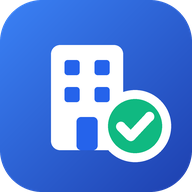
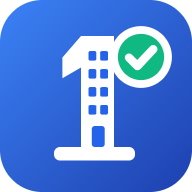
Rebrand to ועד1, with a new mark
"ועדלי" turned out to be the name of a live Israeli product in exactly this
market, with its own .com and .co.il. The product is now ועד1 (Vaad1):
vaad1.co.il is free at the registry and vaad1.com looks free.

The mark: the digit 1 drawn as a residential tower, windows down the shaft and
a door at its foot, the numeral's base as the street, and the green check the
dashboard opens with when everything is fine. Same blue as before, so the
change reads as a new name rather than a new product. Regenerated favicon
(svg, 32px png, ico), 192/512 app icons, a full-bleed apple-touch icon and a
maskable icon with the mark inside the safe zone.

Renamed in every user-facing place: the app shell, sidebar, login, resident
portal and onboarding, dashboard welcome, announcement e-mails, the vendor
invitation and its WhatsApp replies, the committee digest and monthly summary
e-mails, the e-mail sender name, the PWA manifest, the page title and the
Capacitor app name (takes effect on the next APK build).

Deliberately unchanged: the Meta template name prefix `vaadly_` (template
names cannot be renamed, only recreated), the bodies of the 13 approved
WhatsApp templates that mention the old name (editing an approved template
sends it back to review), the Android package id, and links to the current
vaadly-app.vercel.app address until the new domain is connected.

diff --git a/src/pages/Messaging.jsx b/src/pages/Messaging.jsx
@@ -79,7 +79,7 @@ async function invokeWa(body) {
 }
 
 function grokBrief(webhookUrl, verifyToken) {
-  return `אני מחבר את מערכת "ועדלי" (ניהול ועדי בתים) ל-WhatsApp Business הרשמי של Meta (Cloud API). אני צריך שתעזור לי, צעד אחר צעד:
+  return `אני מחבר את מערכת "ועד1" (ניהול ועדי בתים) ל-WhatsApp Business הרשמי של Meta (Cloud API). אני צריך שתעזור לי, צעד אחר צעד:
 
 1. ליצור או לבחור WhatsApp Business Account תחת ה-Business Manager שלי, ולרשום ולאמת מספר טלפון עסקי שישמש לשליחה.
 2. ליצור System User קבוע עם הרשאות whatsapp_business_messaging ו-whatsapp_business_management, לשייך אליו את האפליקציה ואת חשבון הוואטסאפ, ולהפיק טוקן גישה קבוע (ללא תפוגה).
@@ -88,7 +88,7 @@ function grokBrief(webhookUrl, verifyToken) {
    Callback URL: ${webhookUrl || '(יופיע במערכת אחרי שמירה ראשונה)'}
    Verify Token: ${verifyToken || '(יופיע במערכת אחרי שמירה ראשונה)'}
    ולהירשם לשדות: messages, message_template_status_update.
-5. להגדיר שם תצוגה לעסק ("ועדלי") ושיטת תשלום בחשבון הוואטסאפ.
+5. להגדיר שם תצוגה לעסק ("ועד1") ושיטת תשלום בחשבון הוואטסאפ.
 
 את תבניות ההודעות (לדיירים ולספקים) המערכת מגישה לאישור Meta בעצמה — אין צורך ליצור אותן ידנית.`
 }
@@ -143,7 +143,7 @@ function categoryAppealBrief(templates, wabaId) {
   const list = rows
     .map((t) => `• ${t.meta_name} — ${t.title}\n  ${APPEAL_GROUNDS[t.key] || 'Transactional message tied to the recipient\'s own account.'}`)
     .join('\n')
-  return `Meta סיווגה ${rows.length} מהתבניות של ועדלי כ-MARKETING במקום UTILITY. אני צריך שתגיש בקשת ביקורת קטגוריה (Request category review) ב-WhatsApp Manager.
+  return `Meta סיווגה ${rows.length} מהתבניות של ועד1 כ-MARKETING במקום UTILITY. אני צריך שתגיש בקשת ביקורת קטגוריה (Request category review) ב-WhatsApp Manager.
 
 חשוב: אי אפשר לעשות את זה דרך ה-API. מטא מאפשרת את זה רק מ-WhatsApp Manager, ולכן רק מי שיש לו גישה לחשבון יכול.
 
@@ -702,7 +702,7 @@ function ConnectionPanel({ cfg, reload }) {
   const c = cfg?.config || {}
   const [form, setForm] = useState({
     phone_number_id: c.phone_number_id || '', waba_id: c.waba_id || '',
-    graph_version: c.graph_version || 'v21.0', sender_label: c.sender_label || 'ועדלי', enabled: !!c.enabled,
+    graph_version: c.graph_version || 'v21.0', sender_label: c.sender_label || 'ועד1', enabled: !!c.enabled,
   })
   const [token, setToken] = useState('')
   const [appSecret, setAppSecret] = useState('')
@@ -713,7 +713,7 @@ function ConnectionPanel({ cfg, reload }) {
     const k = cfg?.config || {}
     setForm({
       phone_number_id: k.phone_number_id || '', waba_id: k.waba_id || '',
-      graph_version: k.graph_version || 'v21.0', sender_label: k.sender_label || 'ועדלי', enabled: !!k.enabled,
+      graph_version: k.graph_version || 'v21.0', sender_label: k.sender_label || 'ועד1', enabled: !!k.enabled,
       forward_webhook_url: k.forward_webhook_url || '',
     })
   }, [cfg])
@@ -803,7 +803,7 @@ function ConnectionPanel({ cfg, reload }) {
             </label>
             <p className="text-[11px] text-[var(--text-muted)]">
               ל-Meta יש כתובת webhook אחת בלבד לכל אפליקציה. המספר משותף עם "אות", והגיליון שלה מתעדכן מ-Apps Script.
-              אם תמלאו כאן את הכתובת שלה, ועדלי יקבל את האירועים ויעביר כל אחד מהם הלאה כמו שהוא — ושניהם ימשיכו לעבוד.
+              אם תמלאו כאן את הכתובת שלה, ועד1 יקבל את האירועים ויעביר כל אחד מהם הלאה כמו שהוא — ושניהם ימשיכו לעבוד.
               ריק = אין העברה, והגיליון יפסיק להתעדכן ברגע שה-webhook יוחלף.
             </p>
           </div>

diff --git a/src/components/common/BrandLogo.jsx b/src/components/common/BrandLogo.jsx
@@ -1,25 +1,30 @@
-// The ועדלי brand mark, inlined — an <img src="/favicon.svg"> can fail to
-// load (stale APK bundle, offline first paint); inline SVG cannot.
+// The ועד1 brand mark, inlined — an <img src="/favicon.svg"> can fail to load
+// (stale APK bundle, offline first paint); inline SVG cannot.
+//
+// The digit 1 is a residential tower: windows down the shaft, a door at the
+// foot, the base of the numeral as the street. The green check is the same
+// "everything is fine" the dashboard opens with.
 export function BrandLogo({ className = 'w-10 h-10' }) {
   return (
-    <svg viewBox="0 0 64 64" className={className} role="img" aria-label="ועדלי">
+    <svg viewBox="0 0 64 64" className={className} role="img" aria-label="ועד1">
       <defs>
-        <linearGradient id="vaadly-g" x1="0" y1="0" x2="1" y2="1">
+        <linearGradient id="vaad1-g" x1="0" y1="0" x2="1" y2="1">
           <stop offset="0" stopColor="#3b82f6" />
           <stop offset="1" stopColor="#1e40af" />
         </linearGradient>
       </defs>
-      <rect width="64" height="64" rx="14" fill="url(#vaadly-g)" />
-      <rect x="17" y="15" width="24" height="35" rx="3" fill="#ffffff" />
+      <rect width="64" height="64" rx="14" fill="url(#vaad1-g)" />
+      <path d="M27 12h11v37h-11V22.5l-6.2 3.6v-6.9z" fill="#ffffff" />
+      <rect x="18" y="49" width="27" height="4.5" rx="2" fill="#ffffff" />
       <g fill="#2563eb">
-        <rect x="21.5" y="20" width="5" height="5" rx="1" />
-        <rect x="31.5" y="20" width="5" height="5" rx="1" />
-        <rect x="21.5" y="29" width="5" height="5" rx="1" />
-        <rect x="31.5" y="29" width="5" height="5" rx="1" />
-        <rect x="25.5" y="39" width="7" height="11" rx="1.5" />
+        <rect x="29.5" y="17" width="2.6" height="3.2" rx=".6" /><rect x="33.4" y="17" width="2.6" height="3.2" rx=".6" />
+        <rect x="29.5" y="23" width="2.6" height="3.2" rx=".6" /><rect x="33.4" y="23" width="2.6" height="3.2" rx=".6" />
+        <rect x="29.5" y="29" width="2.6" height="3.2" rx=".6" /><rect x="33.4" y="29" width="2.6" height="3.2" rx=".6" />
+        <rect x="29.5" y="35" width="2.6" height="3.2" rx=".6" /><rect x="33.4" y="35" width="2.6" height="3.2" rx=".6" />
+        <rect x="30.6" y="42" width="4.3" height="7" rx="1" />
       </g>
-      <circle cx="45" cy="42" r="10.5" fill="#10b981" stroke="#ffffff" strokeWidth="3" />
-      <path d="M40.3 42.2l3.3 3.3 6.2-6.6" fill="none" stroke="#ffffff" strokeWidth="3.2" strokeLinecap="round" strokeLinejoin="round" />
+      <circle cx="47" cy="19" r="9" fill="#10b981" stroke="#ffffff" strokeWidth="2.6" />
+      <path d="M43 19.2l2.8 2.8 5.3-5.6" fill="none" stroke="#ffffff" strokeWidth="2.8" strokeLinecap="round" strokeLinejoin="round" />
     </svg>
   )
 }

diff --git a/src/pages/Vendors.jsx b/src/pages/Vendors.jsx
@@ -217,11 +217,11 @@ const inviteTemplate = (vendor) => ({
 function buildInviteMessage(vendor) {
   const trade = vendor?.category ? ` בתחום ${vendor.category}` : ''
   return `שלום${vendor?.name ? ' ' + vendor.name : ''},\n\n` +
-    `אנחנו *ועדלי* — מערכת לניהול תחזוקת בנייני מגורים. אנו מנהלים עבור ועדי בתים את הטיפול בתקלות ובעבודות, ומפנים אותן לספקים מהמאגר שלנו.\n\n` +
+    `אנחנו *ועד1* — מערכת לניהול תחזוקת בנייני מגורים. אנו מנהלים עבור ועדי בתים את הטיפול בתקלות ובעבודות, ומפנים אותן לספקים מהמאגר שלנו.\n\n` +
     `נשמח לצרף אתכם${trade} למאגר. מעת לעת, כשעולה צורך בבניין באזורכם, תקבלו פנייה לעבודה עם כל פרטי התקלה (כולל תמונה) — ישירות לנייד. אין כאן התחייבות לעבודות קבועות, אלא פניות לפי צורך.\n\n` +
     `שקיפות מלאה: שיתוף הפעולה כרוך בעמלה לכל עבודה שתתקבל דרך המערכת. הפרטים המלאים יסוכמו איתכם לאחר שתאשרו.\n\n` +
     `*אם אתם מעוניינים לקבל פניות לעבודות — השיבו "מאשר", ונמשיך משם.* תודה!\n` +
-    `בברכה,\nתומר — ועדלי`
+    `בברכה,\nתומר — ועד1`
 }
 
 // ---------------------------------------------------------------------------
@@ -880,7 +880,7 @@ function Vendors() {
           <div className="space-y-4">
             <SectionCard
               icon={Send}
-              title="הזמנת ספקים למאגר ועדלי"
+              title="הזמנת ספקים למאגר ועד1"
               subtitle='לחיצה על "שלח הזמנה" מסמנת את הספק כ"הוזמן"; לאחר תשובתו סמן "אישר" או "סירב". רק ספק שאישר מקבל בקשות לקריאות.'
               actions={
                 <Button size="sm" variant="outline" onClick={sendBulkInvites} disabled={bulk.running}>

diff --git a/src/pages/Announcements.jsx b/src/pages/Announcements.jsx
@@ -237,7 +237,7 @@ function AnnouncementComposer({
           <div className="mx-auto max-w-[280px] rounded-[22px] border-[6px] border-[var(--text-primary)] bg-[var(--surface-secondary)] p-2.5">
             <div className="rounded-xl bg-[var(--surface)] p-3 shadow-[var(--shadow)]">
               <div className="flex items-center justify-between text-[10px] text-[var(--text-muted)] mb-1">
-                <span className="flex items-center gap-1 font-semibold text-[var(--primary)]"><Megaphone className="h-3 w-3" />ועדלי • {buildingName || 'הבניין'}</span>
+                <span className="flex items-center gap-1 font-semibold text-[var(--primary)]"><Megaphone className="h-3 w-3" />ועד1 • {buildingName || 'הבניין'}</span>
                 <span>עכשיו</span>
               </div>
               <p className="text-[12px] font-bold text-[var(--text-primary)] line-clamp-1">{form.title || 'כותרת ההודעה'}</p>
@@ -465,7 +465,7 @@ function Announcements() {
   <p style="color: #565e74; font-size: 15px; line-height: 1.7; white-space: pre-wrap;">${form.content}</p>
   ${form.expiresAt ? `<p style="color: #737686; font-size: 13px; margin-top: 16px;">בתוקף עד: ${new Date(form.expiresAt).toLocaleDateString('he-IL')}</p>` : ''}
   <hr style="border: none; border-top: 1px solid #e2e8f0; margin: 24px 0;" />
-  <p style="color: #737686; font-size: 12px; text-align: center;">ועדלי — מערכת ניהול ועד בית</p>
+  <p style="color: #737686; font-size: 12px; text-align: center;">ועד1 — מערכת ניהול ועד בית</p>
 </div>`
 
           let sent = 0

diff --git a/supabase/functions/green-whatsapp/index.ts b/supabase/functions/green-whatsapp/index.ts
@@ -105,8 +105,8 @@ Deno.serve(async (req: Request) => {
         }).then(() => {}, () => {})
         // Polite acknowledgement back to the vendor.
         const ack = newStatus === 'agreed'
-          ? 'תודה! נרשמת כספק מאושר במאגר ועדלי — נפנה אליך כשתהיה קריאה מתאימה. בברכה, תומר — ועדלי'
-          : 'תודה על המענה, הוסרת מרשימת הפניות. אם תתחרט — כתוב "מאשר". בברכה, תומר — ועדלי'
+          ? 'תודה! נרשמת כספק מאושר במאגר ועד1 — נפנה אליך כשתהיה קריאה מתאימה. בברכה, תומר — ועד1'
+          : 'תודה על המענה, הוסרת מרשימת הפניות. אם תתחרט — כתוב "מאשר". בברכה, תומר — ועד1'
         try {
           const { data: integ2 } = await svc.from('messaging_integrations').select('*').eq('provider', 'greenapi').maybeSingle()
           const { data: secret2 } = await svc.from('messaging_secrets').select('api_token').eq('provider', 'greenapi').maybeSingle()

diff --git a/src/pages/Dashboard.jsx b/src/pages/Dashboard.jsx
@@ -217,7 +217,7 @@ function Dashboard() {
         <div className="w-16 h-16 rounded-[var(--radius-lg)] bg-[var(--surface-container)] text-[var(--primary)] flex items-center justify-center mb-5">
           <Building2 className="h-8 w-8" strokeWidth={1.5} />
         </div>
-        <h1 className="text-[24px] font-semibold text-[var(--text-primary)] mb-2">ברוכים הבאים לוועדלי</h1>
+        <h1 className="text-[24px] font-semibold text-[var(--text-primary)] mb-2">ברוכים הבאים ל־ועד1</h1>
         <p className="text-[14px] text-[var(--text-secondary)] mb-6 max-w-sm">טרם הוגדר בניין במערכת. הוסיפו את הבניין הראשון כדי להתחיל לנהל גבייה, תקלות ודיירים.</p>
         <Link to="/buildings" className="h-[38px] px-4 rounded-[var(--radius)] bg-[var(--primary)] hover:bg-[var(--primary-hover)] text-white text-[13px] font-semibold inline-flex items-center gap-2">
           <Plus className="h-4 w-4" />הוספת בניין ראשון

diff --git a/supabase/functions/send-notification/index.ts b/supabase/functions/send-notification/index.ts
@@ -90,7 +90,7 @@ async function sendGmail(to: string, subject: string, html: string): Promise<voi
     // Dot-stuff the body so a line starting with "." can't terminate DATA early.
     const stuffedHtml = html.replace(/(^|\r\n)\./g, '$1..')
     const rawEmail = [
-      `From: Vaadly <${GMAIL_USER}>`,
+      `From: Vaad1 <${GMAIL_USER}>`,
       `To: <${to}>`,
       `Subject: ${encodeSubject(subject)}`,
       `MIME-Version: 1.0`,
@@ -456,7 +456,7 @@ const ISSUE_OPENED_COPY: Record<string, { headline: string; lead: string; subjec
   },
   committee: {
     headline: 'פנייה חדשה לטיפולך',
-    lead: 'הפנייה שויכה אליך לפי קטגוריית הטיפול. אפשר לטפל בה באפליקציית ועדלי.',
+    lead: 'הפנייה שויכה אליך לפי קטגוריית הטיפול. אפשר לטפל בה באפליקציית ועד1.',
     subject: (t) => `פנייה חדשה לטיפולך — ${t}`,
   },
   routing_email: {

diff --git a/supabase/functions/whatsapp/index.ts b/supabase/functions/whatsapp/index.ts
@@ -283,7 +283,7 @@ async function handleInbound(svc: SupabaseClient, integ: Integ | null, token: st
   // The vendor just wrote to us, so the 24h service window is open — free text is allowed.
   if (integ?.enabled && integ.phone_number_id && token) {
     const ack = newStatus === 'agreed'
-      ? 'תודה! נרשמת כספק מאושר במאגר ועדלי — נפנה אליך כשתהיה קריאה מתאימה.'
+      ? 'תודה! נרשמת כספק מאושר במאגר ועד1 — נפנה אליך כשתהיה קריאה מתאימה.'
       : 'תודה על המענה, הוסרת מרשימת הפניות. אם תתחרט — כתוב "מאשר".'
     const r = await graph(integ, token, `${integ.phone_number_id}/messages`, {
       method: 'POST',

diff --git a/src/components/layout/ResidentPortal.jsx b/src/components/layout/ResidentPortal.jsx
@@ -205,7 +205,7 @@ export function ResidentPortal({ profileOverride = null }) {
             <BrandLogo className="w-10 h-10 rounded-[var(--radius-lg)] shrink-0" />
             <div className="min-w-0">
               <p className="text-[17px] leading-tight font-bold text-[var(--primary)] truncate">
-                ועדלי{building?.name ? <span className="text-[var(--text-primary)]"> | {building.name}</span> : null}
+                ועד1{building?.name ? <span className="text-[var(--text-primary)]"> | {building.name}</span> : null}
               </p>
               <p className="text-[12px] text-[var(--text-secondary)] truncate">{[floorLabel, unitNumber !== '—' ? `דירה ${unitNumber}` : ''].filter(Boolean).join(', ')}</p>
             </div>

diff --git a/src/components/layout/ResidentOnboarding.jsx b/src/components/layout/ResidentOnboarding.jsx
@@ -104,7 +104,7 @@ export function ResidentOnboarding() {
             <div className="flex items-center gap-3 min-w-0">
               <BrandLogo className="w-10 h-10 rounded-xl shadow-lg shadow-blue-500/25 shrink-0" />
               <div className="min-w-0">
-                <h1 className="text-lg font-extrabold text-gray-900">ברוכים הבאים לוועדלי</h1>
+                <h1 className="text-lg font-extrabold text-gray-900">ברוכים הבאים ל־ועד1</h1>
                 <p className="text-xs text-gray-400">כניסה ראשונה — שייכו את עצמכם לדירתכם</p>
                 {user?.email && <p className="text-[11px] text-gray-400 truncate mt-0.5">מחובר כ-{user.email}</p>}
               </div>

diff --git a/src/components/layout/Sidebar.jsx b/src/components/layout/Sidebar.jsx
@@ -190,7 +190,7 @@ function Sidebar({ open, onClose, pulse = {} }) {
             <Link to="/" onClick={onClose} className="flex items-center gap-3">
               <BrandLogo className="h-10 w-10 rounded-[var(--radius-lg)] shadow-[var(--shadow)]" />
               <span>
-                <span className="block text-[22px] leading-none font-bold tracking-tight text-[var(--primary)]">ועדלי</span>
+                <span className="block text-[22px] leading-none font-bold tracking-tight text-[var(--primary)]">ועד1</span>
                 <span className="block text-[11px] leading-[14px] text-[var(--text-muted)] mt-1">ניהול ועד בית חכם</span>
               </span>
             </Link>

diff --git a/src/pages/Login.jsx b/src/pages/Login.jsx
@@ -25,7 +25,7 @@ export default function Login() {
       <aside className="hidden lg:flex flex-col justify-between p-12 bg-[var(--primary-dark)] text-white">
         <div className="flex items-center gap-3">
           <BrandLogo className="w-10 h-10 rounded-[var(--radius)]" />
-          <span className="text-[20px] font-bold tracking-[-0.015em]">ועדלי</span>
+          <span className="text-[20px] font-bold tracking-[-0.015em]">ועד1</span>
         </div>
         <div className="max-w-md">
           <h2 className="text-[32px] leading-10 font-bold tracking-[-0.02em]">
